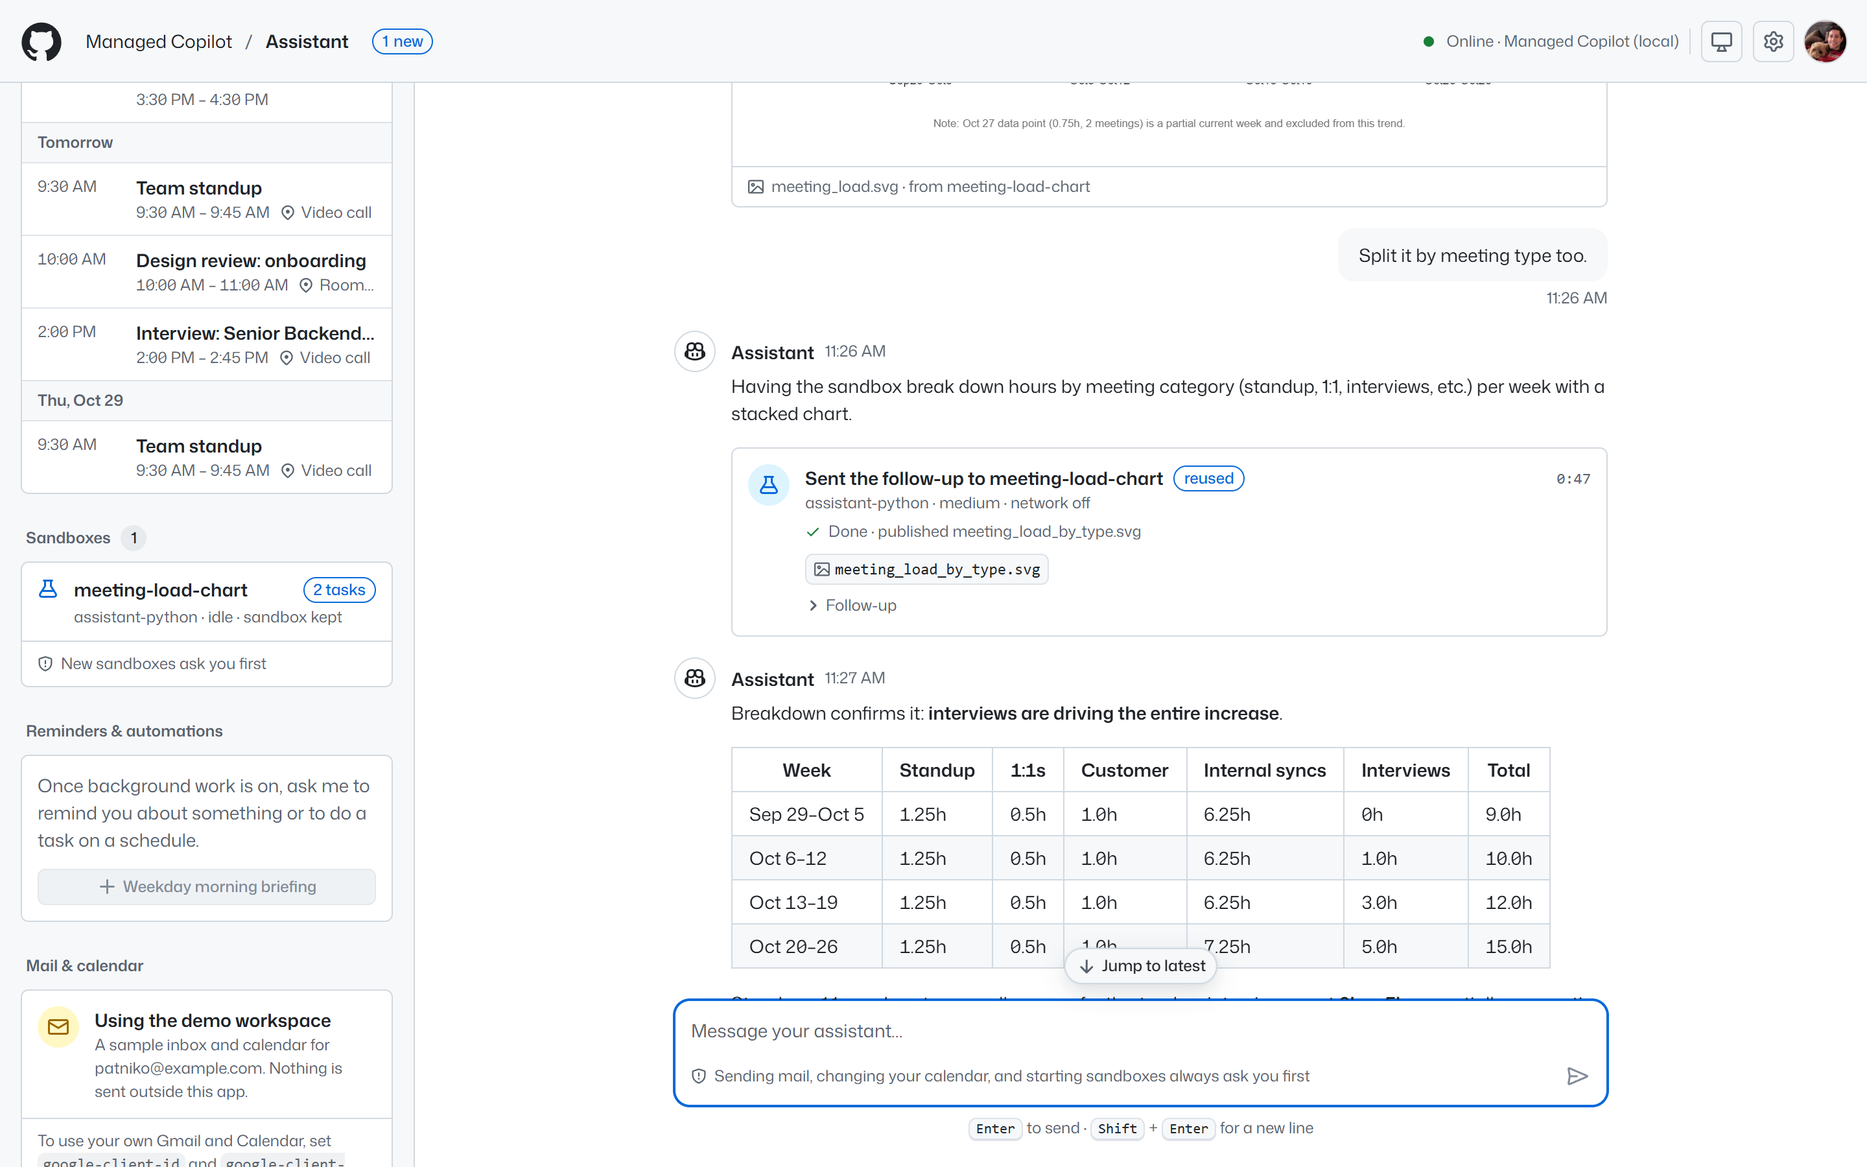
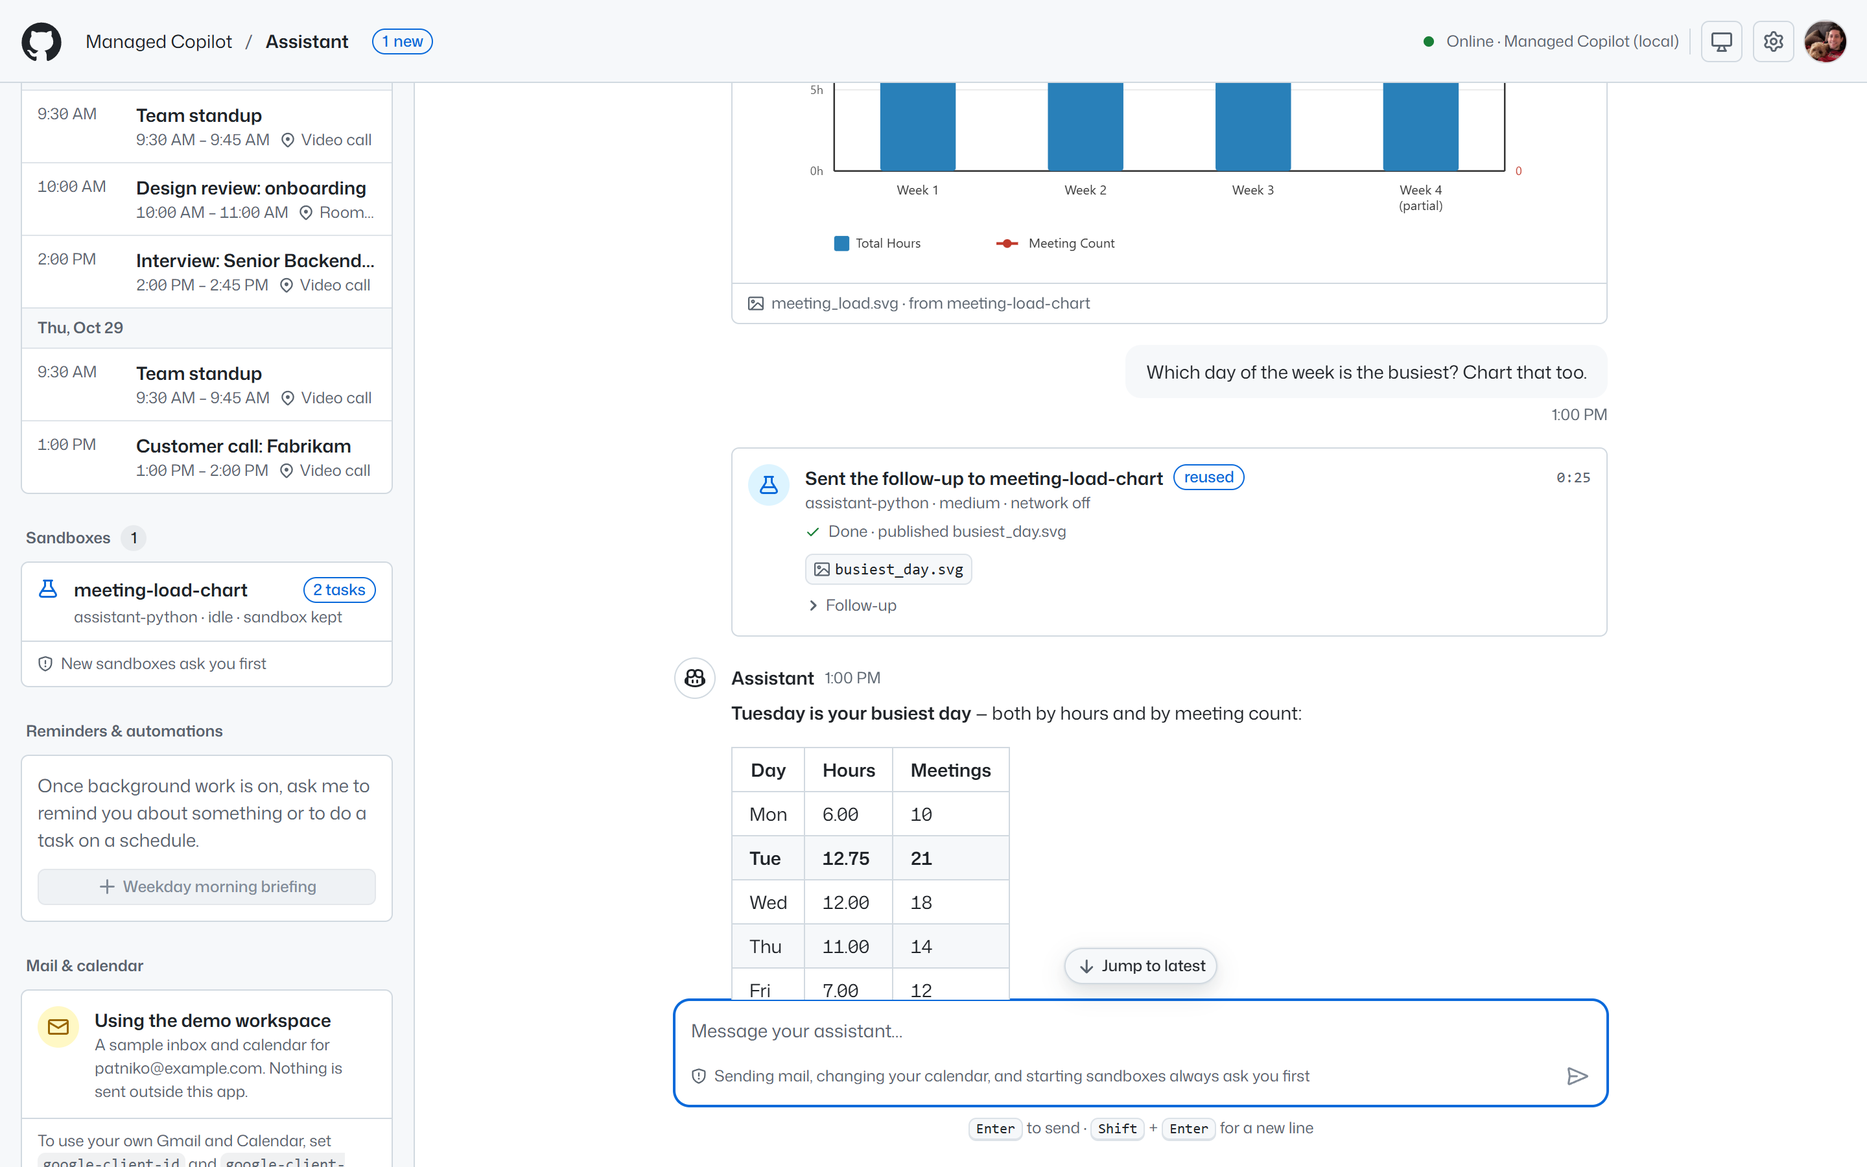
Assistant sandboxes: time cards from listings, not events
Astra's follow-up review: the platform event stream catches up after a
reconnect (Last-Event-ID), so a late finish could end a newer card's work, and
a buffered finish with clock skew could still be overwritten by a stop.

- Worker events now only prompt a fresh listing (and count finishes). A
  listing ends a sandbox's latest card once it settled with that card's message
  counted, at its own time but never before the card started; no times from
  different clocks are compared, and a late event can't end anything.
- A sandbox listed as stopped finished its latest task first if a listing saw
  it finished after its last message, or it reported as many finishes as
  messages; otherwise the stop cut it short.
- The replay buffer and the store's time-based finishRuns/finishOpenRuns are
  gone.

The scripted reuse step now asks "Which day of the week is the busiest? Chart
that too.": the earlier "Split it by meeting type too." was sometimes already
answered by the first chart, so the agent rightly skipped the sandbox. README
step 8 and the reused screenshot match.

diff --git a/demos/assistant/src/server/sandboxes.ts b/demos/assistant/src/server/sandboxes.ts
@@ -7,8 +7,8 @@
  *   agent's sandbox tools finish, and every few seconds while one is working;
  * - `managed.sessions.get(worker.id)` for its sandbox, and `managed.artifacts(worker.id)` for the files it published
  *   from `/workspace/outputs`. Images are copied here, so charts stay in the chat after a sandbox is deleted;
- * - when each start or follow-up card's work ended, from those events and states (kept in the store, so the chat
- *   shows the same timings after a restart).
+ * - when each start or follow-up card's work ended, from those listings (kept in the store, so the chat shows the
+ *   same timings after a restart).
  */
 import type { ServerResponse } from "node:http";
 import { isManagedCopilotError, type ArtifactInfo, type ManagedCopilot, type PlatformEvent, type WorkerInfo } from "@managed-copilot/sdk";
@@ -35,8 +35,6 @@ const MAX_DOWNLOAD_BYTES = 32 * 1024 * 1024;
 const BUSY_POLL_MS = 10_000;
 /** How long to wait for a finished sandbox's outputs to publish (the platform's own wait is 30 seconds). */
 const PUBLICATION_WAIT_MS = 45_000;
-/** Finishes remembered per sandbox until their runs are known. */
-const MAX_FINISHES = 20;
 const DEBOUNCE_MS = 250;
 const RETRY_MS = 15_000;
 /** Times a sandbox left unread (its outputs couldn't be listed or an image copied) is read again, backing off. */
@@ -48,6 +46,11 @@ export const SANDBOXES_UNSUPPORTED = "This deployment can't run sandboxes, so yo
 
 const SETTLED = new Set(["idle", "failed", "stopped"]);
 type Settled = "idle" | "failed" | "stopped";
+/** How a sandbox's work ended, by the platform's clock. */
+interface Finish {
+  readonly at: string;
+  readonly state: "idle" | "failed";
+}
 
 export interface SandboxesDeps {
   readonly log: Logger;
@@ -103,8 +106,10 @@ export class Sandboxes {
   readonly #awaited = new Map<string, string>();
   /** Workers whose publication is being awaited right now. */
   readonly #publishing = new Set<string>();
-  /** Finishes seen as events that ended no run then (their cards weren't known yet), per worker. */
-  readonly #finishes = new Map<string, { readonly at: string; readonly state: Settled }[]>();
+  /** Finishes (idle or failed) reported by events per worker: how many, and the latest. */
+  readonly #completions = new Map<string, Finish & { readonly count: number }>();
+  /** Per worker, the latest listing that showed it finished (idle or failed), with the messages it had by then. */
+  readonly #lastFinished = new Map<string, Finish & { readonly messages: number }>();
   #refreshing: Promise<void> | undefined;
   #again = false;
   #timer: NodeJS.Timeout | undefined;
@@ -162,18 +167,12 @@ export class Sandboxes {
     if (!sessionId || event.sessionId !== sessionId) return;
     const { workerId, state } = event.data as { workerId?: unknown; state?: unknown };
     if (typeof workerId !== "string") return;
-    if (typeof state === "string" && SETTLED.has(state)) {
-      const finish = { at: iso(event.createdAt), state: state as Settled };
-      this.#registerRuns(sessionId, this.#workers);
-      // Finishes seen before their cards were known end those cards' runs first.
-      this.#replayFinishes(workerId);
-      // A sandbox is sent nothing new while it works, so this ends the work of every card it has so far. (No time
-      // comparison: the platform's clock and the one that timed the cards can differ.)
-      if (this.#deps.store.finishOpenRuns(workerId, finish.at, finish.state) === 0) {
-        this.#finishes.set(workerId, [...(this.#finishes.get(workerId) ?? []), finish].slice(-MAX_FINISHES));
-      }
+    // Events only prompt a fresh listing, which decides when work ended: an event can arrive late (the stream catches
+    // up after reconnecting). Finishes are counted, for a sandbox stopped before a listing saw it finish.
+    if (state === "idle" || state === "failed") {
+      this.#completions.set(workerId, { count: (this.#completions.get(workerId)?.count ?? 0) + 1, at: iso(event.createdAt), state });
+      this.#awaitPublication(workerId);
     }
-    if (state === "idle" || state === "failed") this.#awaitPublication(workerId);
     this.#dirty.add(workerId);
     this.schedule();
   }
@@ -395,26 +394,13 @@ export class Sandboxes {
   }
 
   /**
-   * Applies remembered finishes to runs registered since, oldest first: each ends its sandbox's open runs that had
-   * started by then. One that ended a run has done its job, so it can't end a later card's run.
+   * Times each card's work: from its tool call until its sandbox finished it. A listing decides, by counting the
+   * sandbox's messages rather than comparing times: an event can arrive late, and the platform's clock and the one
+   * that timed the cards can differ (a time is only kept from ending before its card started).
    */
-  #replayFinishes(workerId?: string): void {
-    const entries = workerId === undefined ? [...this.#finishes] : [[workerId, this.#finishes.get(workerId) ?? []] as const];
-    for (const [id, finishes] of entries) {
-      const left: { readonly at: string; readonly state: Settled }[] = [];
-      for (const finish of [...finishes].sort((a, b) => (a.at < b.at ? -1 : a.at > b.at ? 1 : 0))) {
-        if (this.#deps.store.finishRuns(id, finish.at, finish.state) === 0) left.push(finish);
-      }
-      if (left.length > 0) this.#finishes.set(id, left);
-      else this.#finishes.delete(id);
-    }
-  }
-
-  /** Times each card's work: from its tool call until its sandbox settled (events end it on time; states catch up). */
   #track(coordinatorId: string, workers: readonly WorkerInfo[]): void {
     const store = this.#deps.store;
     this.#registerRuns(coordinatorId, workers);
-    this.#replayFinishes();
     // A follow-up reaches a sandbox only once it finished its earlier work, so an earlier card's work ended by then.
     const runs = store.runs(coordinatorId);
     const byWorker = new Map<string, typeof runs>();
@@ -425,15 +411,30 @@ export class Sandboxes {
         if (!run.finishedAt) store.finishRun(run.cardId, list[index + 1]!.startedAt, "idle");
       }
     }
-    // A settled sandbox whose message count covers every card finished their work too. Counting doesn't compare the
-    // platform's clock with the one that timed the cards; a listing from before a card's message counts fewer.
     for (const worker of workers) {
+      if (worker.state === "idle" || worker.state === "failed") {
+        this.#lastFinished.set(worker.id, { at: iso(worker.updatedAt), state: worker.state, messages: worker.messages });
+      }
+      // The latest card's work is over once its sandbox settled with that card's message counted.
       const list = byWorker.get(worker.id);
       const last = list?.at(-1);
       if (!list || !last || last.finishedAt || !SETTLED.has(worker.state) || worker.messages < list.length) continue;
-      const updatedAt = iso(worker.updatedAt);
-      store.finishRun(last.cardId, updatedAt > last.startedAt ? updatedAt : last.startedAt, worker.state as Settled);
+      const end: { at: string; state: Settled } = worker.state === "stopped" ? this.#endBeforeStop(worker) : { at: iso(worker.updatedAt), state: worker.state as Settled };
+      store.finishRun(last.cardId, end.at > last.startedAt ? end.at : last.startedAt, end.state);
     }
+  }
+
+  /**
+   * How a stopped sandbox's latest work ended: it finished first if a listing saw it finished after its last message,
+   * or it reported as many finishes as it was sent messages (it was stopped before a listing saw it). Otherwise the
+   * stop cut it short.
+   */
+  #endBeforeStop(worker: WorkerInfo): { at: string; state: Settled } {
+    const seen = this.#lastFinished.get(worker.id);
+    if (seen && seen.messages >= worker.messages) return seen;
+    const counted = this.#completions.get(worker.id);
+    if (counted && counted.count >= worker.messages) return counted;
+    return { at: iso(worker.updatedAt), state: "stopped" };
   }
 
   /** The sandbox a card is about when its tool result didn't name it: the newest one by that name started by then. */
@@ -519,7 +520,8 @@ export class Sandboxes {
     this.#workers = [];
     this.#inspected.clear();
     this.#awaited.clear();
-    this.#finishes.clear();
+    this.#completions.clear();
+    this.#lastFinished.clear();
     this.#dirty.clear();
     this.#sandboxStates.clear();
     this.#set({ ...this.#currentBase(), workers: [], runs: {} });

diff --git a/demos/assistant/test/sandboxes.test.ts b/demos/assistant/test/sandboxes.test.ts
@@ -495,6 +495,65 @@ describe("Sandboxes", () => {
     subject.stop();
   });
 
+  it("doesn't end a follow-up's work with an earlier finish that arrives late", async () => {
+    const cards = [card({ id: "c1", workerId: "w1", worker: "stats", endedAt: at(2) })];
+    const stats = worker({ id: "w1", name: "stats", state: "idle", updatedAt: at(30) });
+    const { subject, emit, state } = sandboxes({ workers: [stats], cards });
+    await subject.refresh();
+    expect(subject.view.runs.c1).toMatchObject({ finishedAt: at(30), outcome: "idle" });
+    cards.push(card({ id: "c2", action: "message", workerId: "w1", worker: "stats", at: at(40), endedAt: at(41) }));
+    state.workers = [{ ...stats, state: "working", messages: 2, updatedAt: at(41) }];
+    await subject.refresh();
+    // The event stream reconnected and caught up: the first task's finish arrives now.
+    emit("worker.idle", { workerId: "w1", name: "stats", state: "idle" }, at(30));
+    await subject.refresh();
+    expect(subject.view.runs.c2).toMatchObject({ startedAt: at(41), finishedAt: undefined });
+    state.workers = [{ ...stats, state: "failed", messages: 2, error: "Python crashed", updatedAt: at(90) }];
+    await subject.refresh();
+    expect(subject.view.runs.c2).toEqual({ workerId: "w1", startedAt: at(41), finishedAt: at(90), outcome: "failed" });
+    subject.stop();
+  });
+
+  it("knows a sandbox stopped after it finished, when its card showed up late and the clocks differ", async () => {
+    const cards: WorkerItem[] = [];
+    const research = worker({ id: "w1", name: "research", environment: "assistant-web", state: "working", updatedAt: at(3) });
+    const { subject, emit, state } = sandboxes({ workers: [research], cards });
+    await subject.refresh();
+    // Finished at :39 by the platform's clock; the card (timed by another clock) says its work started at :41.
+    emit("worker.idle", { workerId: "w1", name: "research", state: "idle" }, at(39));
+    cards.push(card({ id: "c1", workerId: "w1", worker: "research", environment: "assistant-web", endedAt: at(41) }));
+    emit("worker.stopped", { workerId: "w1", name: "research", state: "stopped" }, at(600));
+    state.workers = [{ ...research, state: "stopped", updatedAt: at(600) }];
+    await subject.refresh();
+    expect(subject.view.runs.c1).toEqual({ workerId: "w1", startedAt: at(41), finishedAt: at(41), outcome: "idle" });
+
+    // Seen finished by a listing before its card showed up, and that finish's event was missed.
+    const lateCards: WorkerItem[] = [];
+    const other = sandboxes({ workers: [{ ...research, state: "idle", updatedAt: at(25) }], cards: lateCards });
+    await other.subject.refresh();
+    lateCards.push(card({ id: "c1", workerId: "w1", worker: "research", environment: "assistant-web" }));
+    other.state.workers = [{ ...research, state: "stopped", updatedAt: at(600) }];
+    await other.subject.refresh();
+    expect(other.subject.view.runs.c1).toEqual({ workerId: "w1", startedAt: at(2), finishedAt: at(25), outcome: "idle" });
+    subject.stop();
+    other.subject.stop();
+  });
+
+  it("knows a sandbox stopped mid-task was cut short", async () => {
+    const cards = [card({ id: "c1", workerId: "w1", worker: "stats", endedAt: at(2) })];
+    const stats = worker({ id: "w1", name: "stats", state: "idle", updatedAt: at(30) });
+    const { subject, emit, state } = sandboxes({ workers: [stats], cards });
+    emit("worker.idle", { workerId: "w1", name: "stats", state: "idle" }, at(30));
+    await subject.refresh();
+    // The follow-up was under way when the sandbox was stopped: one finish reported for two messages.
+    cards.push(card({ id: "c2", action: "message", workerId: "w1", worker: "stats", at: at(40), endedAt: at(41) }));
+    emit("worker.stopped", { workerId: "w1", name: "stats", state: "stopped" }, at(50));
+    state.workers = [{ ...stats, state: "stopped", messages: 2, updatedAt: at(50) }];
+    await subject.refresh();
+    expect(subject.view.runs.c2).toEqual({ workerId: "w1", startedAt: at(41), finishedAt: at(50), outcome: "stopped" });
+    subject.stop();
+  });
+
   it("writes nothing for a conversation replaced while it was being read", async () => {
     const cards = [card({ id: "c1", workerId: "w1", worker: "stats" })];
     const { subject, state, store } = sandboxes({ workers: [worker({ id: "w1", name: "stats" })], artifacts: { w1: [artifact({ id: "a1", path: "chart.svg" })] }, cards });
@@ -576,15 +635,20 @@ describe("Sandboxes", () => {
     subject.stop();
   });
 
-  it("times work by the platform's events and ignores other conversations' sandboxes", async () => {
-    const { subject, emit, state, views } = sandboxes({ workers: [worker({ id: "w1", name: "stats", state: "working", updatedAt: at(3) })], cards: [card({ id: "c1", workerId: "w1", worker: "stats" })] });
+  it("times work by listings that its events prompt, and ignores other conversations' sandboxes", async () => {
+    const cards = [card({ id: "c1", workerId: "w1", worker: "stats" }), card({ id: "c2", workerId: "w2", worker: "research", environment: "assistant-web" })];
+    const stats = worker({ id: "w1", name: "stats", state: "working", updatedAt: at(3) });
+    const research = worker({ id: "w2", name: "research", environment: "assistant-web", state: "working", updatedAt: at(3) });
+    const { subject, emit, state, views } = sandboxes({ workers: [stats, research], cards });
     await subject.refresh();
     expect(subject.view.runs.c1).toEqual({ workerId: "w1", startedAt: at(2), finishedAt: undefined, outcome: undefined });
-    emit("worker.idle", { workerId: "w9", name: "other", state: "idle" }, at(10), "someone-else");
+    // A finish in another conversation (even for the same ID) isn't this one's.
+    emit("worker.idle", { workerId: "w2", name: "research", state: "idle" }, at(10), "someone-else");
     emit("worker.idle", { workerId: "w1", name: "stats", state: "idle" }, at(21));
-    state.workers = [worker({ id: "w1", name: "stats", state: "idle", updatedAt: at(22) })];
+    state.workers = [{ ...stats, state: "idle", updatedAt: at(21) }, { ...research, state: "stopped", updatedAt: at(30) }];
     await subject.refresh();
     expect(subject.view.runs.c1).toEqual({ workerId: "w1", startedAt: at(2), finishedAt: at(21), outcome: "idle" });
+    expect(subject.view.runs.c2).toEqual({ workerId: "w2", startedAt: at(2), finishedAt: at(30), outcome: "stopped" });
     expect(views.at(-1)!.workers[0]!.state).toBe("idle");
     subject.stop();
   });

diff --git a/demos/assistant/src/server/store.ts b/demos/assistant/src/server/store.ts
@@ -460,22 +460,6 @@ export class Store {
       .run(run.cardId, run.coordinatorId, run.workerName, run.workerId ?? null, run.startedAt);
   }
 
-  /** Ends a sandbox's open runs that started by `at`: it finished (or stopped) then. */
-  finishRuns(workerId: string, at: string, outcome: "idle" | "failed" | "stopped"): number {
-    const result = this.db
-      .prepare("UPDATE sandbox_runs SET finished_at = ?, outcome = ? WHERE worker_id = ? AND finished_at IS NULL AND started_at <= ?")
-      .run(at, outcome, workerId, at);
-    return Number(result.changes);
-  }
-
-  /** Ends every open run of a sandbox at `at` (never before a run's own start): it finished all it was sent. */
-  finishOpenRuns(workerId: string, at: string, outcome: "idle" | "failed" | "stopped"): number {
-    const result = this.db
-      .prepare("UPDATE sandbox_runs SET finished_at = MAX(started_at, ?), outcome = ? WHERE worker_id = ? AND finished_at IS NULL")
-      .run(at, outcome, workerId);
-    return Number(result.changes);
-  }
-
   /** Ends one card's run if it is still open (and started by `at`). */
   finishRun(cardId: string, at: string, outcome: "idle" | "failed" | "stopped"): void {
     this.db.prepare("UPDATE sandbox_runs SET finished_at = ?, outcome = ? WHERE card_id = ? AND finished_at IS NULL AND started_at <= ?").run(at, outcome, cardId, at);

diff --git a/demos/assistant/scripts/happy-path.ts b/demos/assistant/scripts/happy-path.ts
@@ -190,7 +190,7 @@ async function sandboxJourney(page: Page): Promise<void> {
 
   step("Follow up: the same sandbox gets it (reused, no new approval)");
   const starts = await page.locator('[data-testid="approval"][data-tool="start_worker"]').count();
-  await send(page, "Split it by meeting type too.");
+  await send(page, "Which day of the week is the busiest? Chart that too.");
   const reused = page.locator(`[data-testid="sandbox-card"][data-action="message"][data-worker="${stats}"]`).last();
   await reused.waitFor({ timeout: TURN_TIMEOUT });
   ok(`sent the follow-up to ${stats}`);

diff --git a/demos/assistant/README.md b/demos/assistant/README.md
@@ -165,8 +165,8 @@ while Google is connected.
    Python sandbox?**, showing the sandbox's name, size, network (off), and the exact task, events included. Click
    **Start sandbox**: a card shows the new sandbox at work, the chart appears under the reply, and the side panel lists
    it under **Sandboxes**.
-8. Ask *"Split it by meeting type too."* The follow-up goes to the same sandbox, marked **reused**, with no new
-   approval: it still has the events.
+8. Ask *"Which day of the week is the busiest? Chart that too."* The follow-up goes to the same sandbox, marked
+   **reused**, with no new approval: it still has the events.
 9. Ask *"Also check what the candidate in my next interview works on in open source."* That's different work, so the
    assistant asks to start a **web research sandbox**, which can reach only `github.com` and `api.github.com`. The side
    panel lists both sandboxes with their state and number of tasks. The assistant stops a sandbox once it can't help
@@ -255,10 +255,11 @@ after its report, a topic the person moved on from, or the least useful one when
 - **Following them.** The server uses public SDK calls only, and never attaches a client to a sandbox (an attached
   client would answer its prompts): `managed.workers(session).list()`, `managed.on("worker.started" | "worker.idle"
   | "worker.failed" | "worker.stopped")`, `managed.sessions.get(worker.id)` for its sandbox, and
-  `managed.artifacts(worker.id)` for the files it published from `/workspace/outputs`. Each card's time comes from
-  those events and states and is kept in the server's store. Images are copied there too, so a chart stays in the chat
-  after its sandbox is deleted; the route that serves them answers only this app's pages and sends a sandboxing
-  Content Security Policy.
+  `managed.artifacts(worker.id)` for the files it published from `/workspace/outputs`. The events prompt a fresh
+  listing, and each card's time comes from those listings, matched by the sandbox's message count rather than by
+  comparing clocks (an event can arrive late after a reconnect); times are kept in the server's store. Images are
+  copied there too, so a chart stays in the chat after its sandbox is deleted; the route that serves them answers only
+  this app's pages and sends a sandboxing Content Security Policy.
 - **Talking while they work.** While a turn runs (for example while the agent waits for a sandbox), new messages are
   sent with `mode: "immediate"`, so the assistant answers them right away; the sandbox keeps working.
 - **Older conversations.** A conversation created before the environment was an orchestrator can't start sandboxes;
